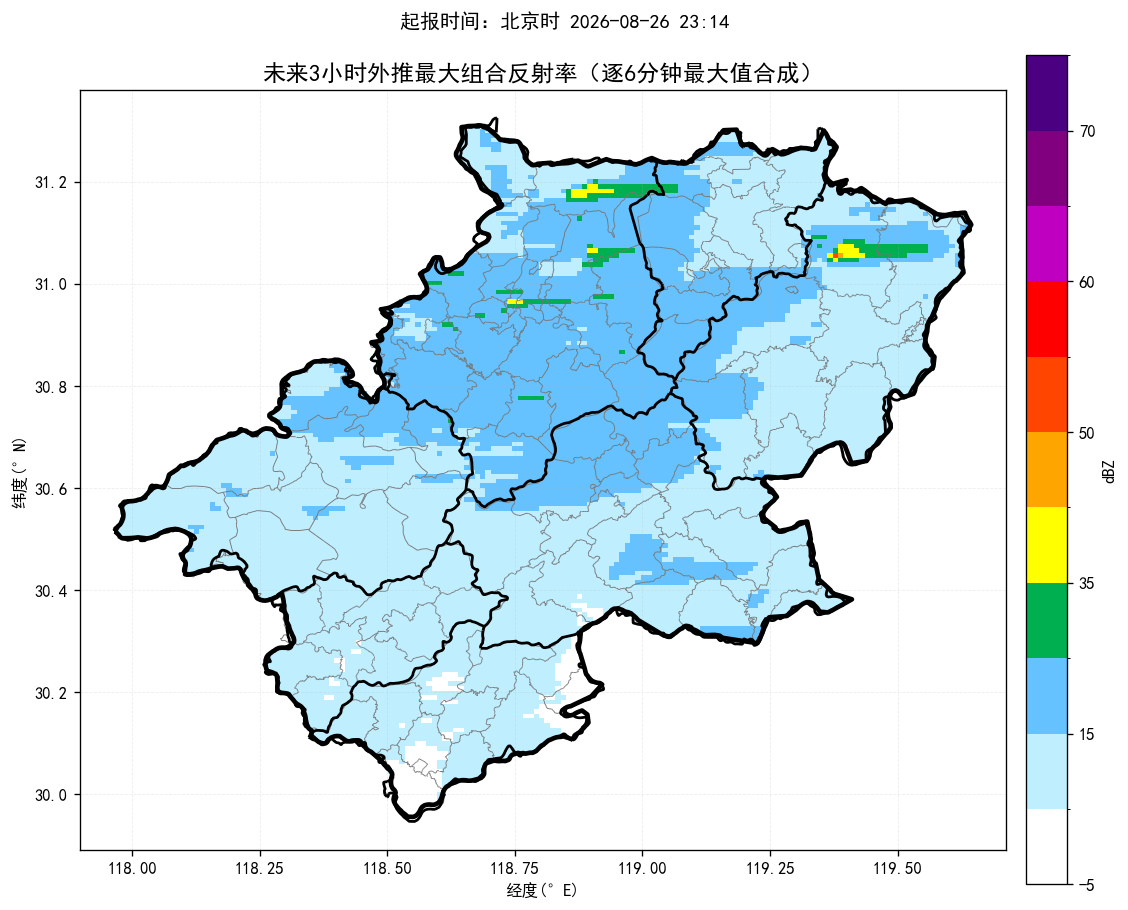
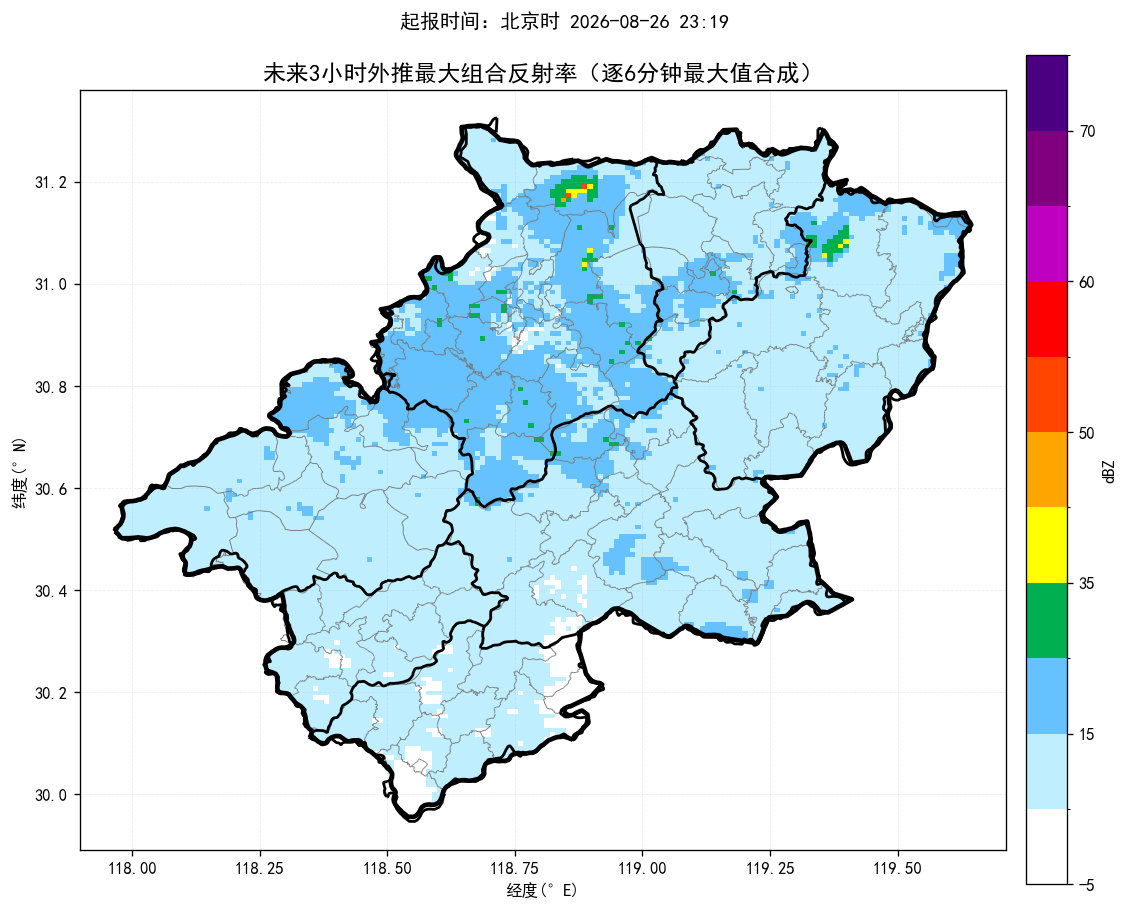
update nowcast products

diff --git a/index.html b/index.html
@@ -14,14 +14,14 @@ img.product{display:block;width:100%;height:auto;margin:10px auto 26px;border:1p
 .footer{font-size:13px;color:#777;text-align:center;margin-top:30px}
 @media(max-width:700px){.sheet{margin:0;padding:18px 15px}.alert-title{font-size:22px}.county-line{font-size:17px}.prob{font-size:18px}}
 </style></head><body><main class="sheet">
-<div class="time">起报时间：北京时 2026-08-26 23:14</div>
-<div class="alert-title">未来一小时降水量超过 20 毫米的乡镇：</div><div class="county-line">无</div>
+<div class="time">起报时间：北京时 2026-08-26 23:19</div>
+<div class="alert-title">未来一小时降水量超过 20 毫米的乡镇：</div><div class="county-line">宣州区：狸桥镇</div>
 <div class="alert-title">未来三小时降水量超过 50 毫米的乡镇：</div><div class="county-line">无</div>
 <div class="alert-title">未来三小时雷暴大风（组合反射率 > 55 dBZ）的乡镇：</div><div class="county-line">无</div>
-<div class="prob">最大降水量概率预估：宣城市范围内未来三小时降水偏小，最大预报约14.1毫米，暂不进行50/80/100毫米概率预估。</div>
-<div class="section-title">未来降水预报图：</div><img class="product auto-refresh-product" data-src="短临降水预报.png" src="短临降水预报.png?v=20260826232001" alt="未来降水预报图">
-<div class="section-title">未来三小时组合反射率图：</div><img class="product auto-refresh-product" data-src="未来3小时组合反射率.png" src="未来3小时组合反射率.png?v=20260826232001" alt="未来三小时组合反射率图">
-<div class="section-title">未来三小时雷暴大风图：</div><img class="product auto-refresh-product" data-src="未来3小时雷暴大风.png" src="未来3小时雷暴大风.png?v=20260826232001" alt="未来三小时雷暴大风图">
+<div class="prob">最大降水量概率预估：宣城市范围内未来三小时累计降水达到50毫米概率约33%，达到80毫米概率约3%，达到100毫米概率约0%。</div>
+<div class="section-title">未来降水预报图：</div><img class="product auto-refresh-product" data-src="短临降水预报.png" src="短临降水预报.png?v=20260826232541" alt="未来降水预报图">
+<div class="section-title">未来三小时组合反射率图：</div><img class="product auto-refresh-product" data-src="未来3小时组合反射率.png" src="未来3小时组合反射率.png?v=20260826232541" alt="未来三小时组合反射率图">
+<div class="section-title">未来三小时雷暴大风图：</div><img class="product auto-refresh-product" data-src="未来3小时雷暴大风.png" src="未来3小时雷暴大风.png?v=20260826232541" alt="未来三小时雷暴大风图">
 <div class="footer">三张产品图每 60 秒自动刷新一次；每次请求自动附加新的URL参数以绕过缓存。</div>
 <script>
 (function() {
